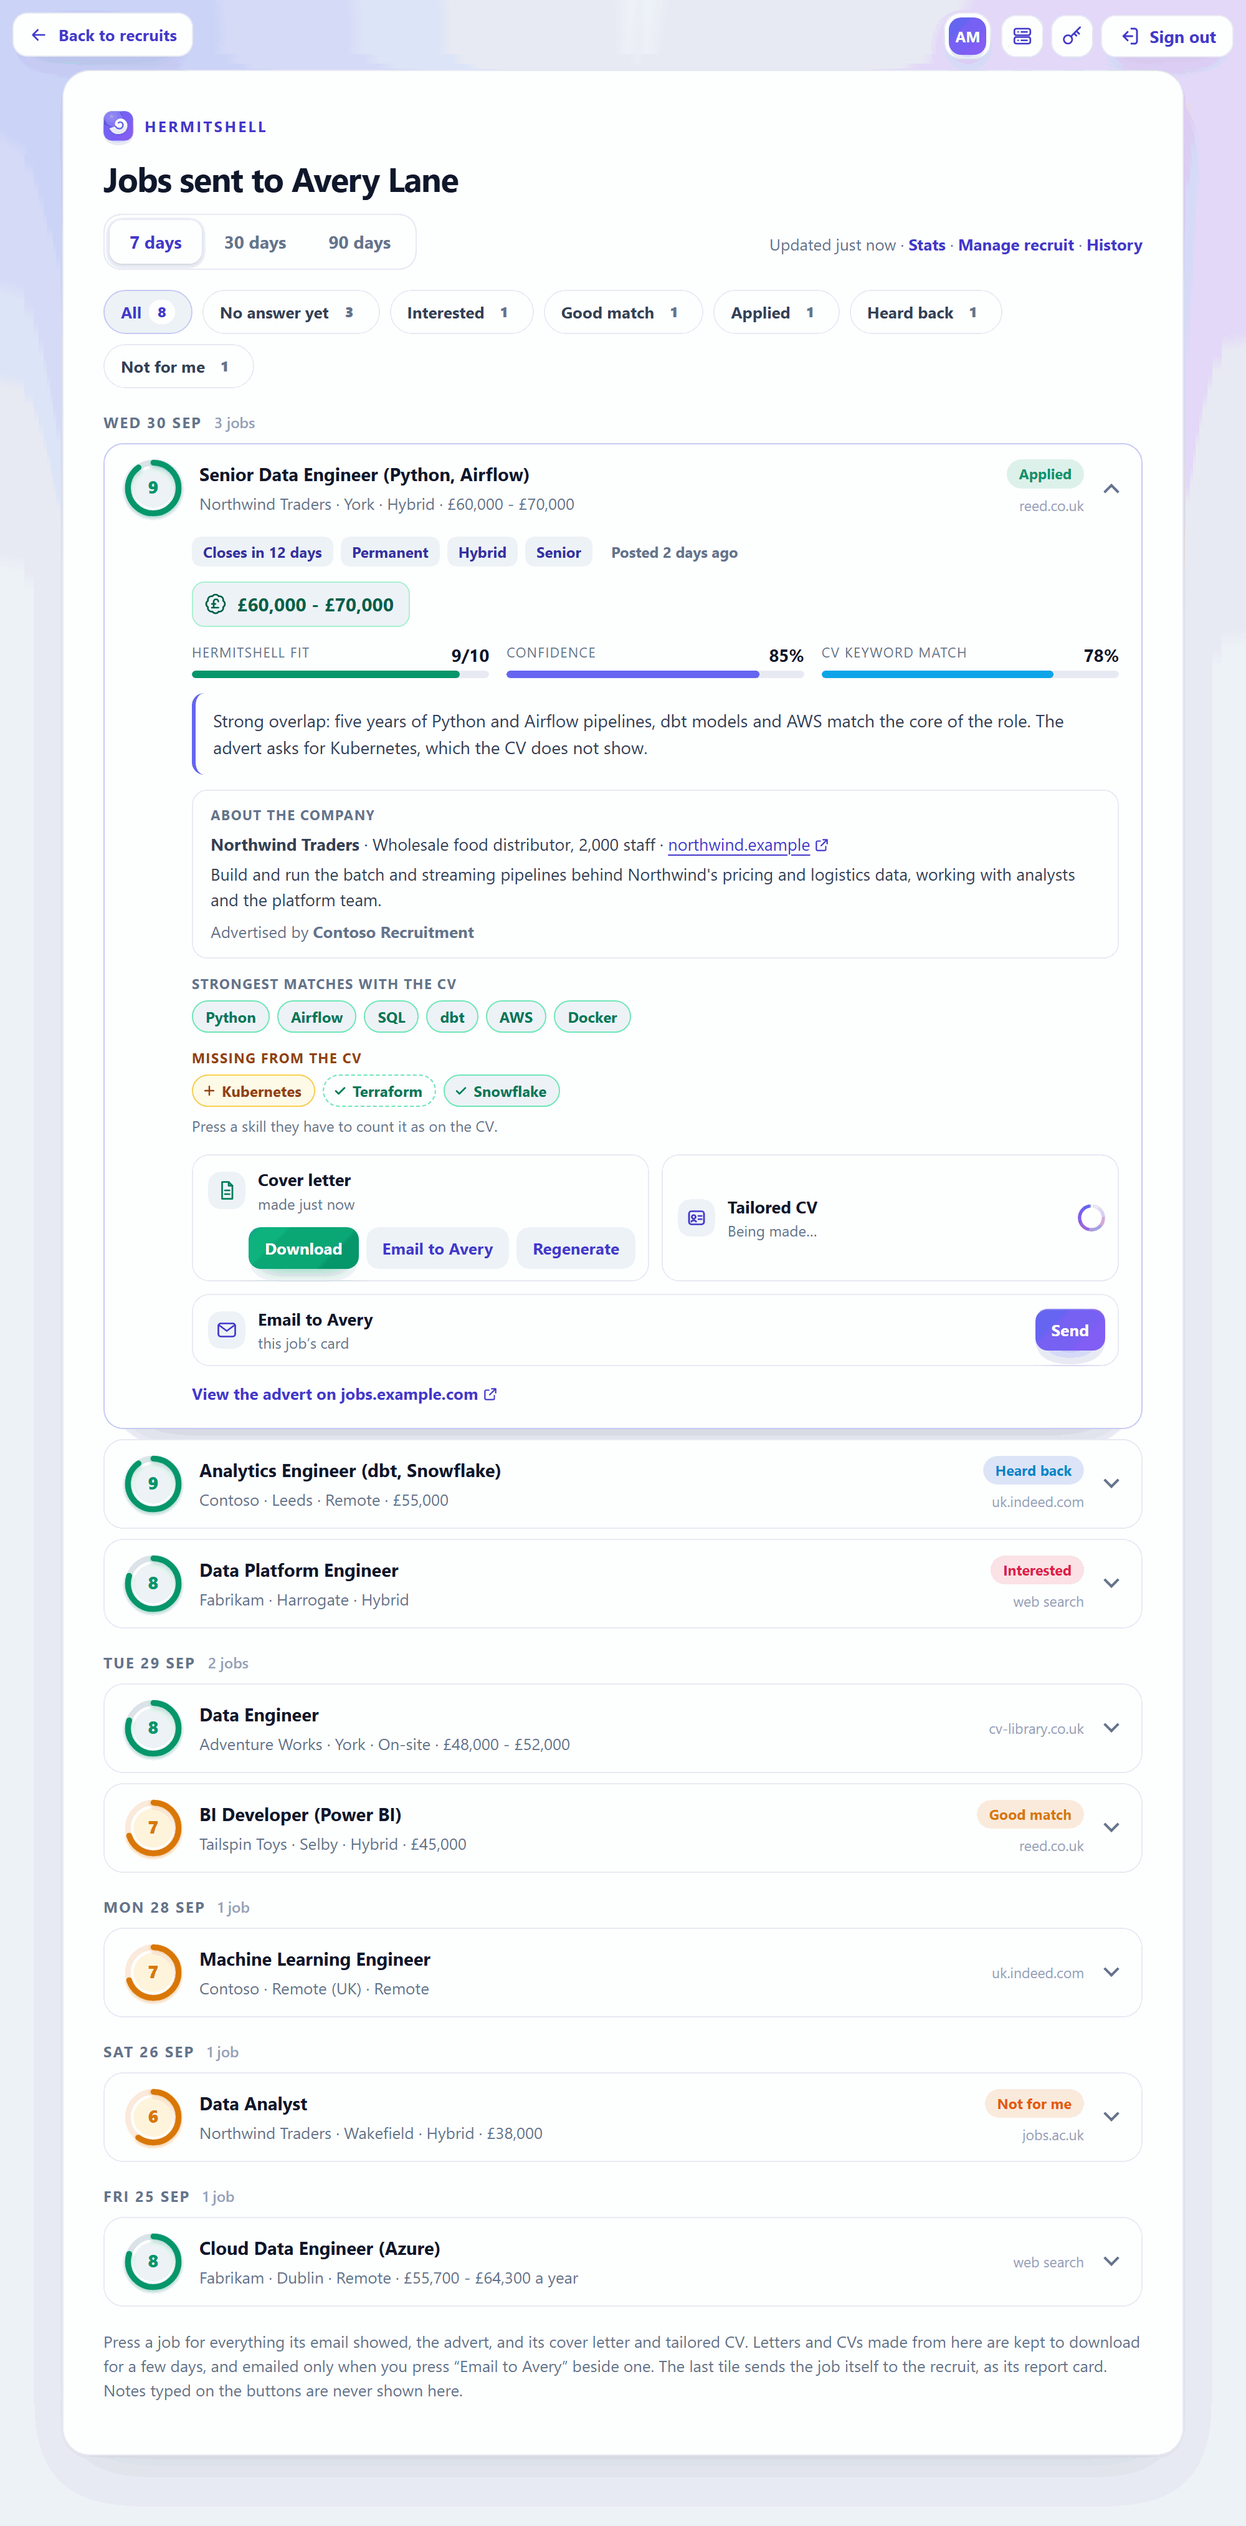
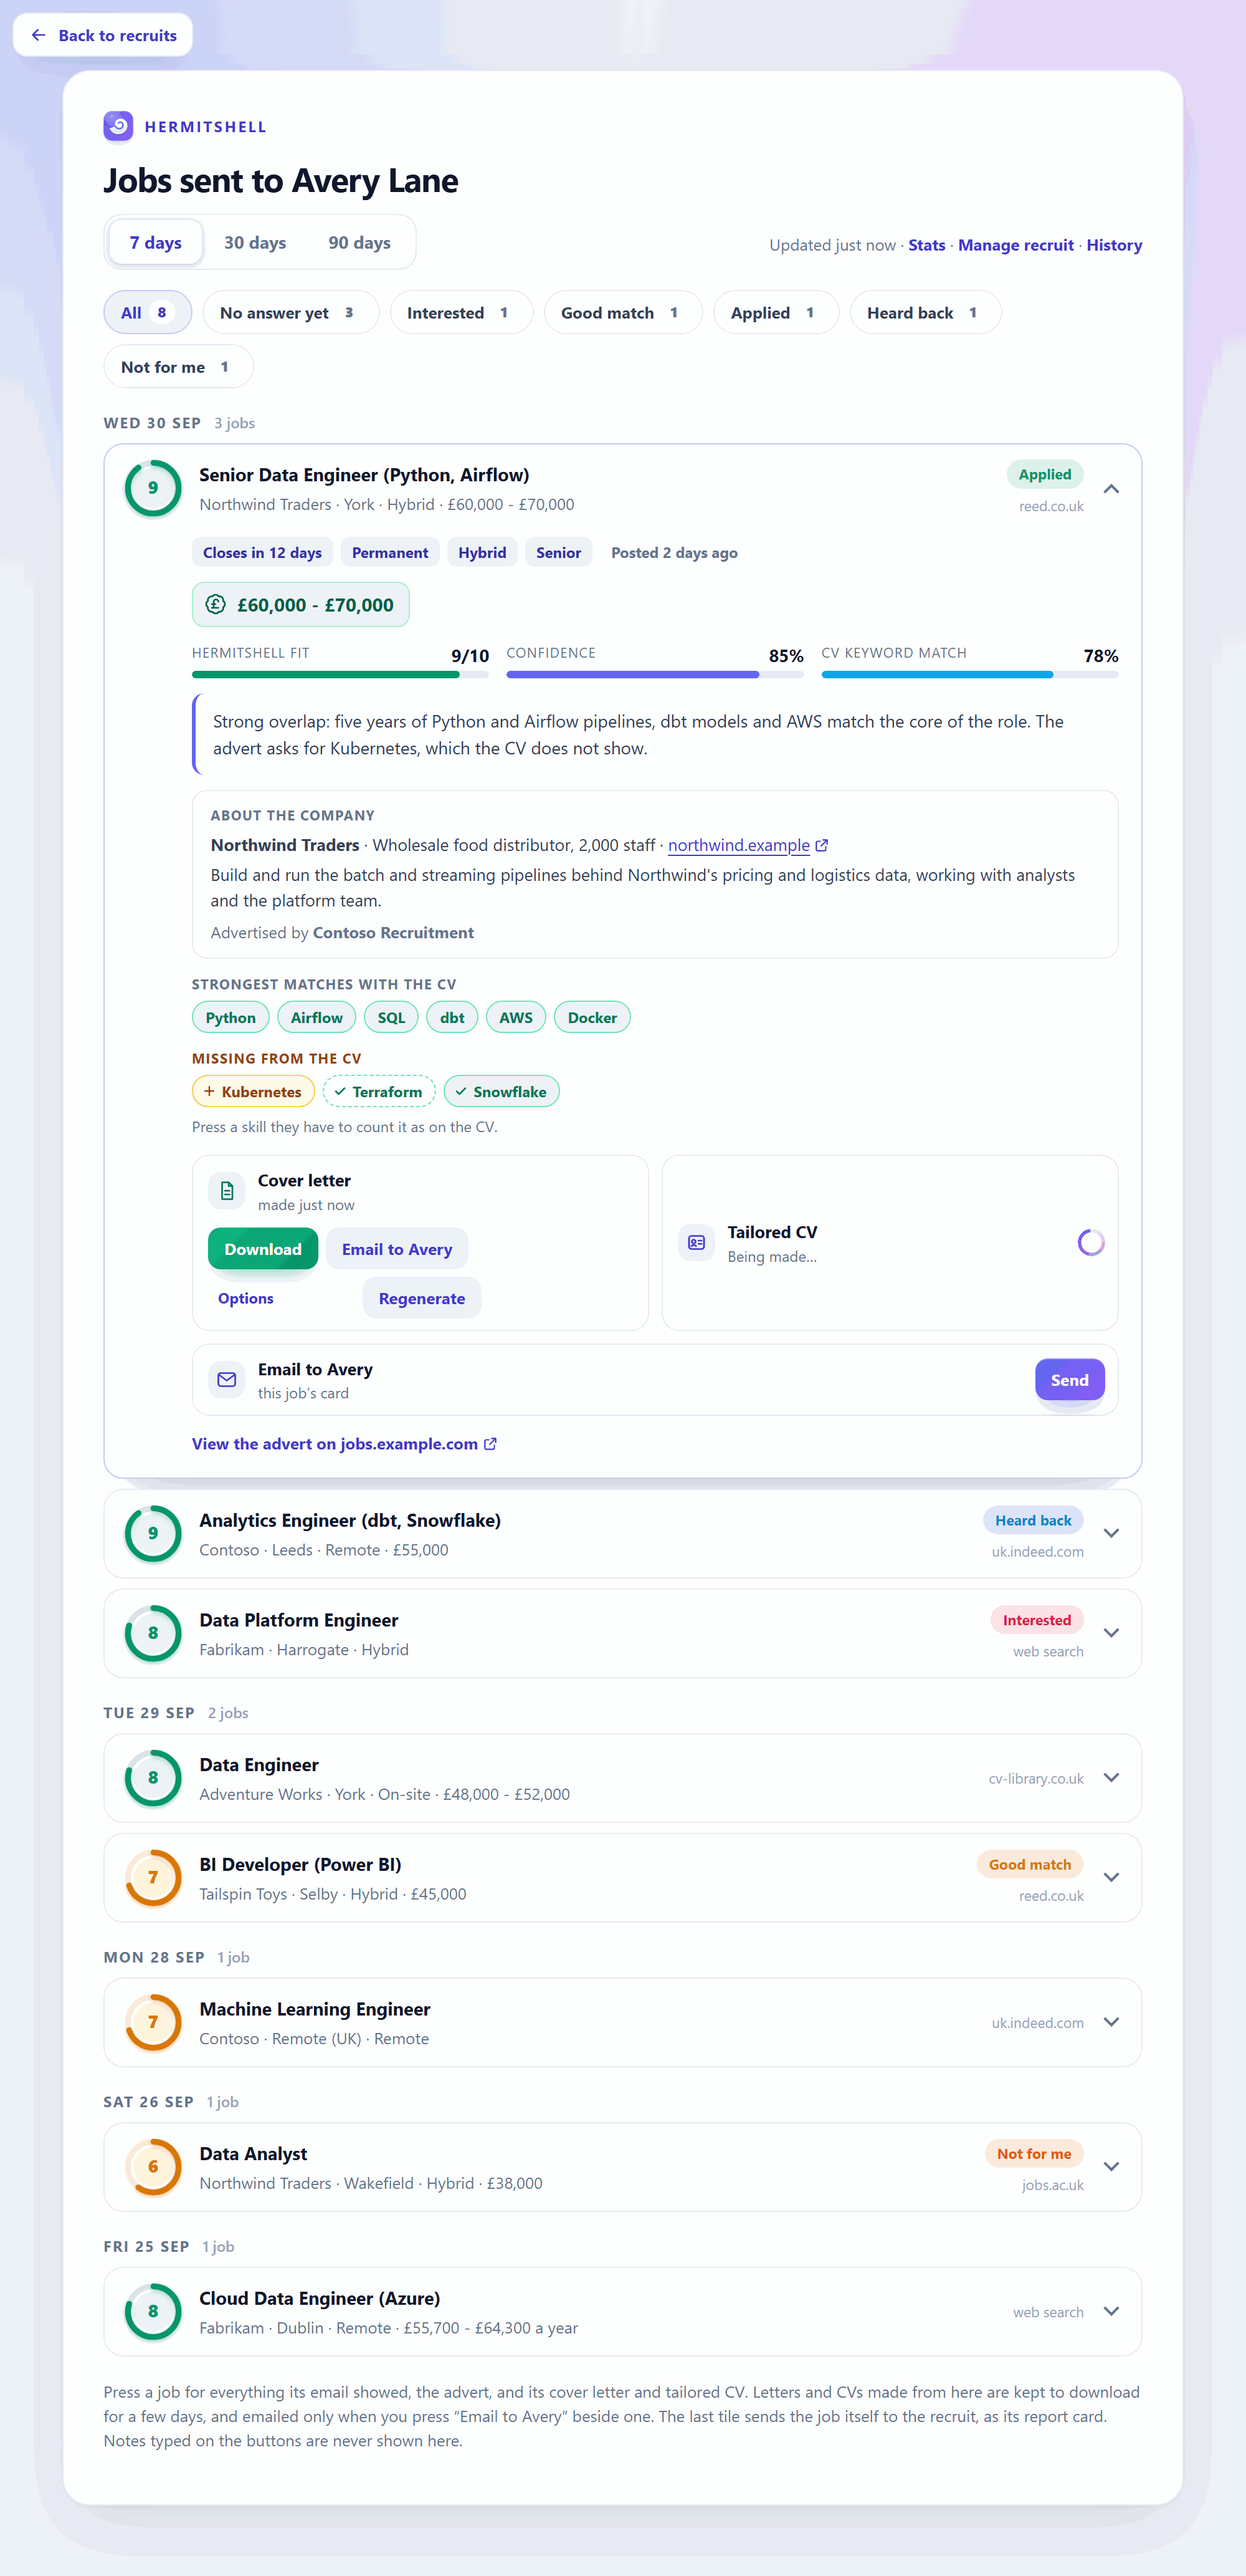
Docs: evidence map, letter length and tone, screenshots and changelog

diff --git a/docs/feedback-worker.md b/docs/feedback-worker.md
@@ -231,17 +231,25 @@ nothing (up to 30 days).
 ## Cover letters
 
 **Cover letter** on a job card opens the usual confirmation page, where you can add guidance
-("mention my Azure work", "keep it short"). After you confirm:
+("mention my Azure work") and choose its **Length** (short, about 200 words in 3 paragraphs; standard,
+about 300 in 4; detailed, about 400 in 5) and **Tone** (professional, warm, direct or formal). After you
+confirm:
 
 ```
 Cover letter button ──> Worker (confirm) ──> KV ──> cover_letter.py every 5 min ──> email + PDF
 ```
 
 1. `cover_letter.py`, a scheduled job, fetches the request from the Worker within 5 minutes.
-2. The model writes the letter from `job_profile.md` (plus `COVER_LETTER_CV_FILE` if set),
-   the listing saved when the job was rated, and your note. It is told to use only facts from
-   your CV. Letters that are too short or contain placeholders are rejected and retried.
-3. The letter is laid out as an A4 PDF with real, selectable text (`letter_pdf.py`, no extra
+2. The model first maps the job: the advert's main requirements, each with the fact from your CV that
+   shows it, or marked as not shown ([evidence map](configuration.md#cover-letters-from-an-evidence-map),
+   kept per job so a new letter or the tailored CV reuses it). It then writes the letter from that map,
+   `job_profile.md` (plus `COVER_LETTER_CV_FILE` if set), the listing and your note, in the length and
+   tone asked for, using only facts from your CV.
+3. The draft is checked without a model (`writing_checks.py`). One that is too short, has placeholders,
+   or uses a job title or figure your CV doesn't have is sent back with exactly what is wrong, up to
+   twice, and refused if it still does. Stock phrases ("I am excited", "passionate"), missing most of
+   the requirements the CV shows, or being off the length asked for get one rewrite.
+4. The letter is laid out as an A4 PDF with real, selectable text (`letter_pdf.py`, no extra
    packages), saved in `state/cover_letters/`, and emailed to you with the job details, a
    preview and a View job button.
 
@@ -262,8 +270,8 @@ days (default `7`, at most `30`, `0` turns this off), counted from when it was f
   (**Download PDF**) instead of queueing another, with **Confirm: write a new cover letter** if you
   want a new one anyway.
 - A request that reaches the server with no note, while a PDF made for that job is still on disk
-  and within those days, emails that PDF again without using the model. A note, or asking for a
-  new one, always writes a new one.
+  and within those days, emails that PDF again without using the model. A note, a length or tone
+  other than standard and professional, or asking for a new one, always writes a new one.
 - The Worker keeps each PDF in KV (`doc:<profile>:<kind>:<job hash>`) encrypted with AES-GCM under
   a key derived from `JOB_FEEDBACK_SECRET`, bound to that profile, job and kind, and KV deletes it
   when its days are up. It is served only to a signed-in admin or through a signed email link for
@@ -284,6 +292,7 @@ The wizard schedules the job; by hand:
 python3 scheduler.py create "*/5 * * * *" "Cover letter requests" \
     --name vacancy-cover-letters --script cover_letter.py
 python3 cover_letter.py --job <tracker key> --dry-run   # try one without email
+python3 cover_letter.py --job <tracker key> --length short --tone warm --dry-run
 ```
 
 The job prints nothing when there is nothing to do, so its runs leave no output file.
@@ -845,6 +854,11 @@ and a **Tailored CV**:
   **Emailing to Sam…** until it has gone. The request carries `send: 1`, which HermitShell's tracker
   keeps as the `send` flag in place of the download-only `quiet`.
 - **Regenerate** writes a new one, replacing the one kept.
+- **Options**, beside **Generate** and **Regenerate** on the cover letter, opens the letter's
+  **Length** and **Tone**. The request carries them as `len` and `tone` (only the listed values; the
+  defaults aren't sent), and the history says, for example, "Asked for a cover letter (short, warm)".
+
+<img src="images/worker/admin-sent-letter-options.png" alt="The cover letter's Options open on an opened job, with Length and Tone" width="460">
 
 The third tile, **Email to Sam**, sends the job itself to that
 recruit's address: **Send** asks HermitShell, which emails it within 5 minutes as the card it had in

diff --git a/CHANGELOG.md b/CHANGELOG.md
@@ -8,6 +8,17 @@ using [Semantic Versioning](https://semver.org/).
 
 ### Added
 
+- **Cover letter length and tone.** The cover letter's confirmation page, and a new **Options** pop-over
+  beside **Generate** and **Regenerate** on the dashboard's jobs sent, choose a length (short, standard or
+  detailed: 3, 4 or 5 paragraphs) and a tone (professional, warm, direct or formal). They reach HermitShell
+  as request flags, show in the history, and a letter in another style is written rather than the kept one
+  reused. `cover_letter.py --job KEY --length short --tone warm` does the same by hand.
+- **Cover letters written from an evidence map.** One request per job pairs the advert's main requirements
+  with the evidence in the CV (`evidence.py`), kept encrypted in `state/evidence/` until the CV or advert
+  changes. The letter is planned on it and gets less of the advert. Drafts are checked for figures and job
+  titles the CV doesn't have, placeholders, stock phrases, requirements missed and length, and a rewrite
+  is sent only the draft and exactly what failed. See
+  [Cover letters from an evidence map](docs/configuration.md#cover-letters-from-an-evidence-map).
 - **Model tokens used, per task.** Every model request, cloud or local, now counts its prompt and reply
   tokens under the task that asked (job ratings, title screening, second opinions, summaries, profiles,
   reading CVs, cover letters, tailored CVs, skills), in `llm_usage.json` in the shared state folder
@@ -671,6 +682,10 @@ using [Semantic Versioning](https://semver.org/).
   briefed once by the model and kept in `state/rating_brief.json` until it changes. A brief that drops
   searched skills or adds figures or job titles isn't used. See
   [Smaller prompts for ratings](docs/configuration.md#smaller-prompts-for-ratings).
+- **Profiles and CVs with plain headings are compacted too.** A short line ending in a colon ("Skills:")
+  now gathers the bullets under it, as a Markdown heading does.
+- **The model bench writes letters as production does**, with the evidence map and rewrites, and reports
+  how many requirements the map found evidence for.
 - **Temperature per task.** Scoring stays at 0; cover letters use 0.4, tailored CVs 0.2 and summaries 0.3,
   on Ollama and cloud providers alike. On OpenRouter, the small bulk tasks ask reasoning models for low
   effort with the reasoning left out of the reply.

diff --git a/docs/screenshots.md b/docs/screenshots.md
@@ -580,9 +580,13 @@ it to the profile:
 | Why | Why it was rated a fit, with anything it lacks (contact details and your name are removed) |
 | **About the company** | The employer, what it does, its website, what the role is, and the agency when one posted it |
 | **Strongest matches** / **Missing from the CV** | The skills found, and the ones the advert wants that your CV doesn't show. Press a missing skill the profile has (**+**) to count it as on the CV, as the email's missing-skill tag does: it shows dashed with a tick until HermitShell's next stats update, then with a solid tick |
-| **Cover letter** / **Tailored CV** | **Generate** has one made (not emailed), shown with a loading circle until it is ready. **Download** gets the one made in the last `COVER_LETTER_KEEP_DAYS` days (7 by default), from here or an email button; **Email to Sam** (**Email to you**) has HermitShell email that same PDF to the profile, showing **Emailing to Sam…** until it has gone; **Regenerate** replaces it |
+| **Cover letter** / **Tailored CV** | **Generate** has one made (not emailed), shown with a loading circle until it is ready. **Download** gets the one made in the last `COVER_LETTER_KEEP_DAYS` days (7 by default), from here or an email button; **Email to Sam** (**Email to you**) has HermitShell email that same PDF to the profile, showing **Emailing to Sam…** until it has gone; **Regenerate** replaces it. **Options**, on the cover letter only, picks the length and tone the new one is written in |
 | **Email to Sam** (**Email to you**) | **Send** has HermitShell email the job to the profile as its report card, with a loading circle while it goes; then **Emailed to Sam** with when, and **Send again** |
 | **View the advert** | Opens the advert in a new tab, when the report had a link |
+
+<img src="images/worker/admin-sent-letter-options.png" alt="The cover letter's Options open, with Length and Tone" width="460">
+
+*The cover letter's **Options** open.*
 
 <img src="images/worker/admin-sent-applied.png" alt="The jobs sent in 30 days that were applied for" width="460">
 

diff --git a/docs/configuration.md b/docs/configuration.md
@@ -134,6 +134,32 @@ variety: cover letters 0.4, tailored CVs 0.2 and report summaries 0.3. On OpenRo
 (screening, ratings, second opinions, summaries and briefs) ask reasoning models to think briefly and
 leave the reasoning out of the reply, which saves tokens on the tasks that need it least.
 
+### Cover letters from an evidence map
+
+Before a letter is written, one request maps the job (`evidence.py`): the advert's main requirements, at
+most 8, each with the strongest evidence from the CV in its own words and where it is (a role, projects,
+skills or education), or marked as not shown. Evidence with a figure the CV doesn't have is dropped. The
+map is kept in `state/evidence/` under a hash of the job, encrypted with a data key, until the CV or the
+advert changes, and maps older than 30 days are deleted; a regenerated letter reuses it.
+
+With a map, the letter prompt gets the compacted CV, the map and the first 2,500 characters of the
+trimmed advert instead of 5,000. Each draft is checked without a model (`writing_checks.py`), and a rewrite
+sends only the draft, what is wrong with it and the map (the CV instead when a job title needs fixing),
+not the whole prompt again. Hard problems (too short, placeholders, job titles or figures the CV doesn't
+have) get up to two rewrites and fail the letter if they stay; soft ones (stock phrases, missing most of
+the requirements the CV shows, off the length asked for) get one. When no model answers the map, the letter
+is written without it, as before.
+
+Lengths and tones, from the request or `cover_letter.py --length/--tone`:
+
+| Length | Paragraphs | Words | Reply tokens allowed |
+| --- | --- | --- | --- |
+| short | 3 | 170 to 260 | 800 |
+| standard (default) | 4 | 250 to 380 | 1,100 |
+| detailed | 5 | 350 to 480 | 1,400 |
+
+Tones: professional (default), warm, direct and formal.
+
 ### Testing prompts and models
 
 `scripts/llm_bench.py` runs HermitShell's real prompts on the configured models with made-up CVs and
